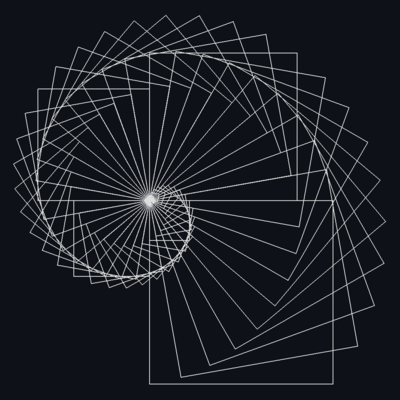
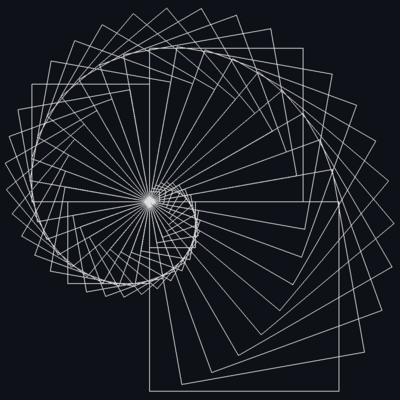
spiral: add more documentation

diff --git a/patterns/examples/spiral.py b/patterns/examples/spiral.py
@@ -1,5 +1,4 @@
 import streamlit as st
-import random
 
 from patterns import Pattern, Turtle
 
@@ -8,6 +7,7 @@ class Spiral(Pattern):
     def options():
         return {
             "label": "Spiral",
+            # each entry in the `options` dict is a streamlit input function
             "options": {
                 "steps": {
                     "function": st.slider,
@@ -43,12 +43,14 @@ class Spiral(Pattern):
         }
 
     def pattern(self, steps, angle_scale, size_scale):
-        pattern = self.canvas.pattern
-
+        # use Turtle to simplify the drawing process
         turtle = Turtle()
+
+        # start the drawing at the center of the canvas
         turtle.teleport(*self.canvas.centroid)
 
-        size = 10
+        # set the initial step size to the minimum stich unit size
+        size = self.canvas.MU
         for i in range(steps):
             turtle.setheading(i * angle_scale)
             turtle.forward(size)
@@ -60,11 +62,17 @@ class Spiral(Pattern):
             turtle.forward(size)
             size += size_scale
 
+        # center the entire drawing on the canvas
         turtle.center(*self.canvas.centroid)
 
+        # convert the turtle drawing into a pattern
         for i, pos in enumerate(turtle.points):
+            # add each turtle drawing step to the pattern
             self.canvas.pattern += pos
+
+            # incrementally yield the canvas pattern to create a frame for an animated GIF output
             if i % 50 == 0:
                 yield self.canvas.pattern
 
-        yield pattern
+        # yield the finished pattern
+        yield self.canvas.pattern
